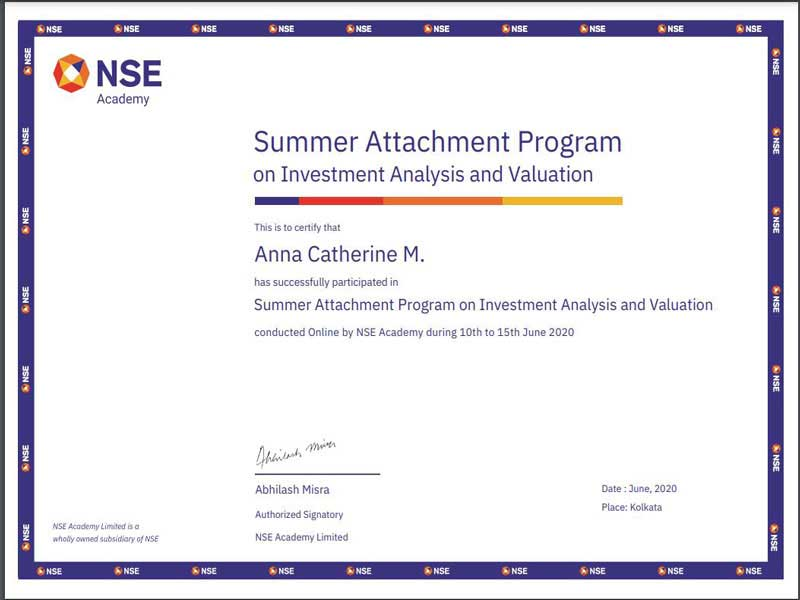
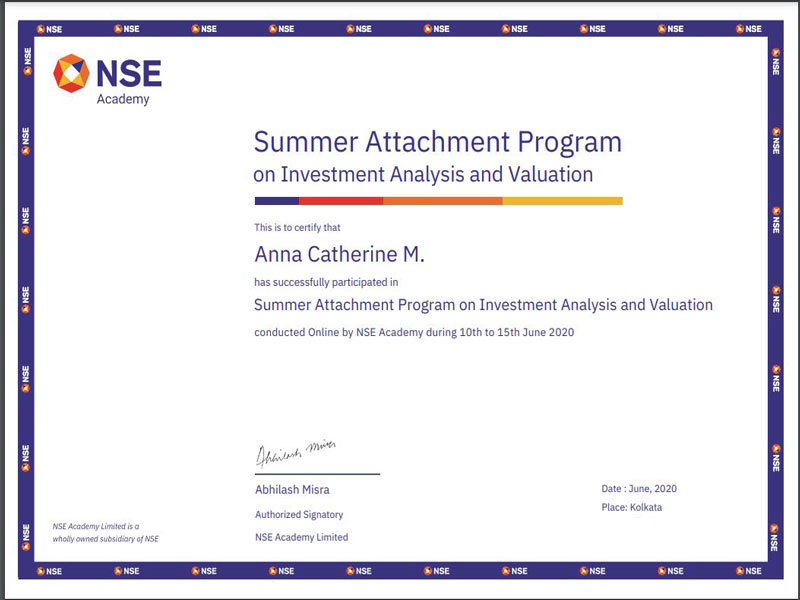
certificate

diff --git a/index.html b/index.html
@@ -372,7 +372,7 @@
                                 <!-- gallery item -->
                                 <div class="item photography mobile website sq-item">
                                     <div class="picframe wow">
-                                        <a class="image-popup" href="images/portfolio-bw/5555.JPG">
+                                        <a class="image-popup" href="images/5555.JPG">
 											<span class="overlay">
 												<span class="pf_text">
 													<span class="project-name">Certificate</span>
@@ -387,13 +387,13 @@
                                 <!-- gallery item -->
                                 <div class="item mobile website sq-item">
                                     <div class="picframe wow">
-                                        <a class="image-popup" href="images/portfolio-bw/55.JPG">
+                                        <a class="image-popup" href="images\portfolio-bw\55.JPG">
 											<span class="overlay">
 												<span class="pf_text">
 													<span class="project-name">Certificate</span>
 												</span>
 											</span>
-											<img src="images/portfolio-bw/55.JPG" alt="" />
+											<img src="images\portfolio-bw\55.JPG" alt="" />
 										</a>
                                     </div>
                                 </div>
@@ -455,7 +455,7 @@
                                         <h2>Projects</h2>
                                         <div class="exp-box">
                                             <h5>2019</h5>
-                                            <h3>The Perception of customers   investing in Life Insurance</h3>
+                                            <h3>The Perception of customers investing in Life Insurance</h3>
                                         </div>                        
                                     </div>
                                 </div>                           
